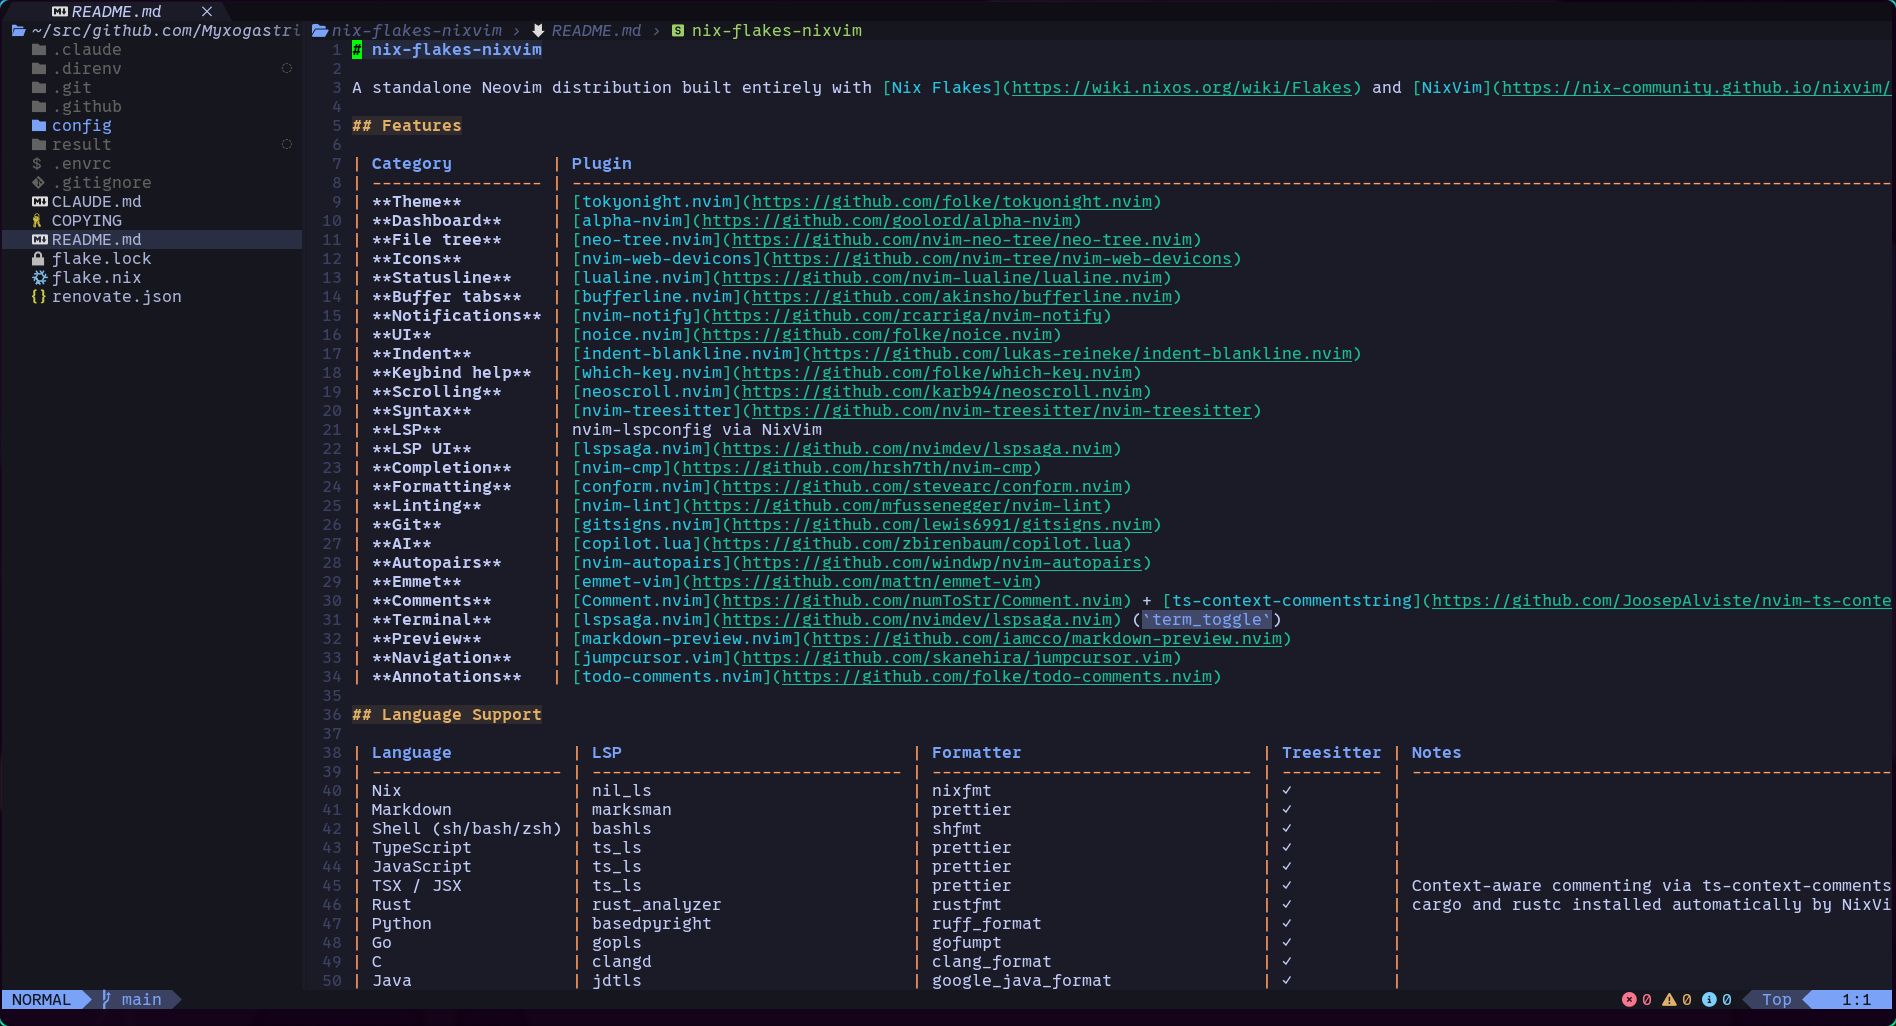
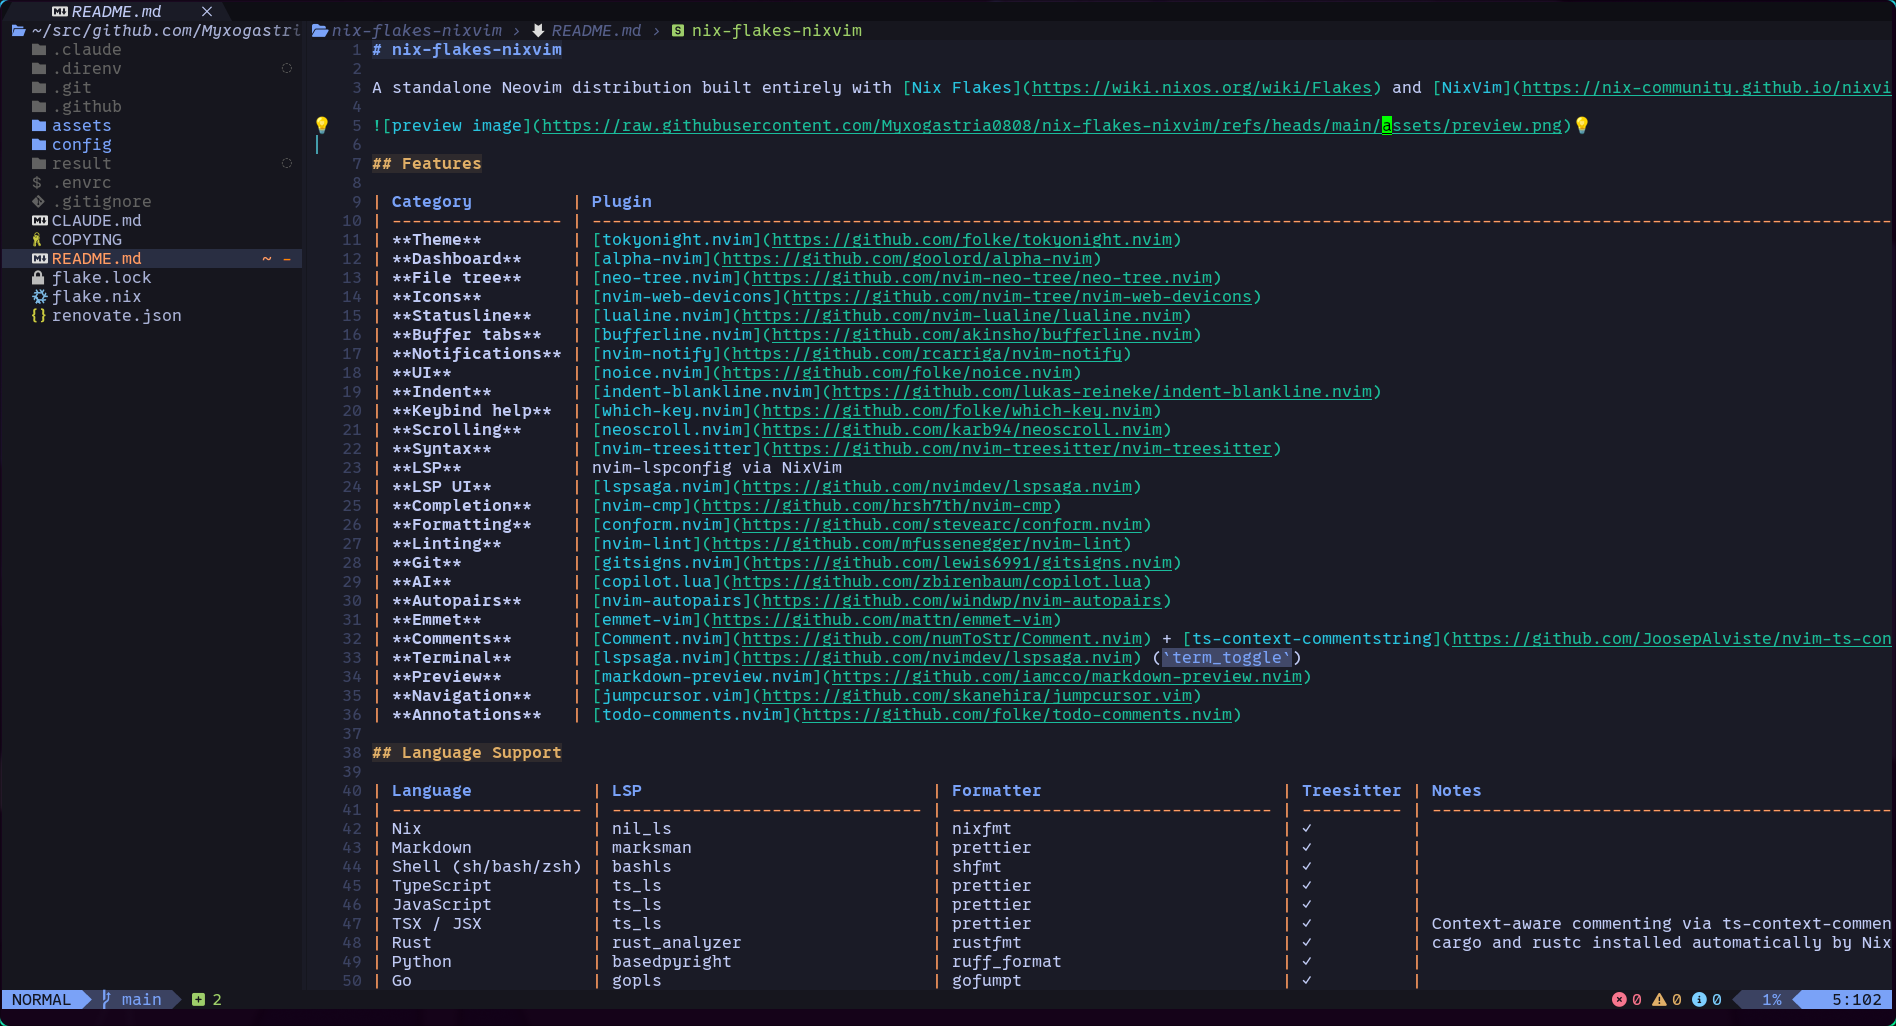
chore: add preview image

diff --git a/README.md b/README.md
@@ -2,6 +2,8 @@
 
 A standalone Neovim distribution built entirely with [Nix Flakes](https://wiki.nixos.org/wiki/Flakes) and [NixVim](https://nix-community.github.io/nixvim/). All plugins, LSP servers, formatters, and keymaps are declared in Nix — no manual plugin manager or imperative configuration required.
 
+![preview image](https://raw.githubusercontent.com/Myxogastria0808/nix-flakes-nixvim/refs/heads/main/assets/preview.png)
+
 ## Features
 
 | Category          | Plugin                                                                                                                                                | Details                                                                                                                                                                                        |
